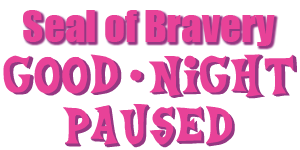
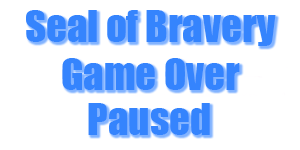
Raf usage made optional. HUD changes

diff --git a/index.html b/index.html
@@ -41,9 +41,9 @@
             <canvas id="game" width="480" height="300"> </canvas>
             <canvas id="hud" width="480" height="300"></canvas>
             <div id='instructions' style='position:relative;opacity:1'>
-                <div class='title' style="position:absolute;top:20px;left:20px;"></div>
-                <div class="subtitle" style='position:absolute;top:100px;left:200px;width:270px;height:100px;color:#E84298;'>
-                    Press Screen or S to start
+                <div class='title' style="position:absolute;top:20%;left:0;right:0;"></div>
+                <div class="subtitle">
+                    Press Screen to start
                 </div>
             </div>
             <div id="hud_screen">
@@ -65,20 +65,20 @@
                             <div class="center2">
                                 <div id='pause' class="screenMenu" onclick='menu.togglePause();'>
                                     <div class='title' style="background-position:0 -100px;"></div>
-                                    <div class='stats' id='main' style='font-size:16px'>
-                                        Press the Play button<br>to resume flight
+                                    <div class='stats' id='main' style='margin-top: 30px;font-size:16px'>
+                                        Press the Play button<br>to resume
                                     </div>
                                     <div style="width: 480px; height: 320px; position: absolute; top: 0; left: 0;"></div>
                                 </div>
                                 <div id='gameover' class="screenMenu" style="top:40px;" >
                                     <div class="center2" style="width:400px;">
-                                        <div class='title' style="background-position:0 -50px;"></div>
+                                        <div class='title' style="background-position:0 -50px; margin-bottom: 30px;"></div>
                                         <div class='stats' id='main'>
-                                            You flew <span id='stats_points'>1337m</span> today!
+                                            You made <span id='stats_points'>1337m</span>!
                                         </div>
 
                                         <div class='stats' id='main' style='margin-top:10px;font-size:16px'>
-                                            Press Restart button or S to Start a new day
+                                            Press Restart button to Start Again
                                         </div>
                                     </div>
                                 </div>

diff --git a/js/game.js b/js/game.js
@@ -4,18 +4,28 @@ SG.timer_enterFrame = null;
 SG.timer_draw = null;
 
 SG.playGame = function() {
-    SG.timer_enterFrame = requestAnimationFrame(SG.enterFrame);
-    SG.timer_draw = requestAnimationFrame(SG.draw);
+    if (Config.useRaf) {
+        SG.timer_enterFrame = requestAnimationFrame(SG.enterFrame);
+        SG.timer_draw = requestAnimationFrame(SG.draw);
+    } else {
+        SG.timer_enterFrame = setInterval(SG.enterFrame, Config.enterFrameRate);
+        SG.timer_draw = setInterval(SG.draw, Config.drawFrameRate);
+    }
 };
 
 SG.pauseGame = function() {
-    cancelAnimationFrame(SG.timer_enterFrame);
-    cancelAnimationFrame(SG.timer_draw);
+    if (Config.useRaf) {
+        cancelAnimationFrame(SG.timer_enterFrame);
+        cancelAnimationFrame(SG.timer_draw);
+    } else {
+        clearInterval(SG.timer_enterFrame);
+        clearInterval(SG.timer_draw);
+    }
 };
 
 SG.enterFrame = function() {
 
-    if (SG.timer_enterFrame) {
+    if (Config.useRaf && SG.timer_enterFrame) {
         cancelAnimationFrame(SG.timer_enterFrame);
     }
 
@@ -56,11 +66,13 @@ SG.enterFrame = function() {
         SG.yDisp += SG.shake;
         SG.shake *= -0.5;
     }
-    requestAnimationFrame(SG.enterFrame);
+    if (Config.useRaf) {
+        requestAnimationFrame(SG.enterFrame);
+    }
 };
 
 SG.draw = function() {
-    if (SG.timer_draw) {
+    if (SG.timer_draw && Config.useRaf) {
         cancelAnimationFrame(SG.timer_draw);
     }
     ctx.clearRect(0, 0, 960, 640); // Clear the canvas
@@ -71,7 +83,10 @@ SG.draw = function() {
     seal.draw();
     HUD.draw();
     ctx.restore();
-    requestAnimationFrame(SG.draw);
+
+    if (Config.useRaf) {
+        requestAnimationFrame(SG.draw);
+    }
 };
 
 SG.init = function() {
@@ -150,6 +165,10 @@ SG.onAssetLoad = function() {
 };
 
 SG.startTheGame = function() {
+    if (! Config.useRaf) {
+        SG.enterFrame();
+        SG.draw();
+    }
     SG.playGame();
     document.getElementById("screen").style.display = "none";
 };

diff --git a/css/game.css b/css/game.css
@@ -10,19 +10,19 @@ html {
 }
 
 body {
-    color: #FFF;
+    color: white;
     overflow: hidden;
     margin: 0;
     padding: 0;
-    font-family: Helvetica, Arial, sans-serif;
+    font-family: Impact, Helvetica, Arial, sans-serif;
 }
 
 div,
 p,
 span {
-    text-shadow: 0 0 2px #943882;
-    -moz-text-shadow: 0 0 2px #943882;
-    -webkit-text-shadow: 0 0 2px #943882;
+    text-shadow: 0 0 2px #82b3ff;
+    -moz-text-shadow: 0 0 2px #82b3ff;
+    -webkit-text-shadow: 0 0 2px #82b3ff;
 }
 
 canvas, #background, #screen, #screen>div {
@@ -78,8 +78,8 @@ img {
 
 #screen > #shade {
     background-color: #000;
-    opacity: 0.5;
-    filter: alpha(opacity=50);
+    opacity: 0.2;
+    filter: alpha(opacity=20);
 }
 
 #hud_screen {
@@ -95,7 +95,7 @@ img {
     width: 30px;
     height: 30px;
     margin-left: 5px;
-    background-color: #555;
+    background-color: lightblue;
     float: right;
     background: url('../images/Buttons.png');
     cursor: pointer;
@@ -126,7 +126,12 @@ img {
 
 .subtitle {
     font-size: 20px;
-    margin-top: 20px;
+    position: absolute;
+    top: 40%;
+    left: 0;
+    right: 0;
+    margin: 0 auto;
+    text-align: center;
 }
 
 .stats {
@@ -152,5 +157,5 @@ img {
     text-align: right;
     margin-right: 10px;
     width: 130px;
-    color: #E84298;
+    /*color: white;*/
 }

diff --git a/js/config.js b/js/config.js
@@ -8,9 +8,14 @@
         gameMaxWidth: 720,
         gameMaxHeight: 450,
 
+        drawFrameRate: 1000/60,
+        enterFrameRate: 1000/60,
+
         friction: 1, // Ground friction
 
         power: 2,  // How much power the seal has when you press the button
+
+        useRaf: false,
 
         // The Hilly Terrain
         hill: {
